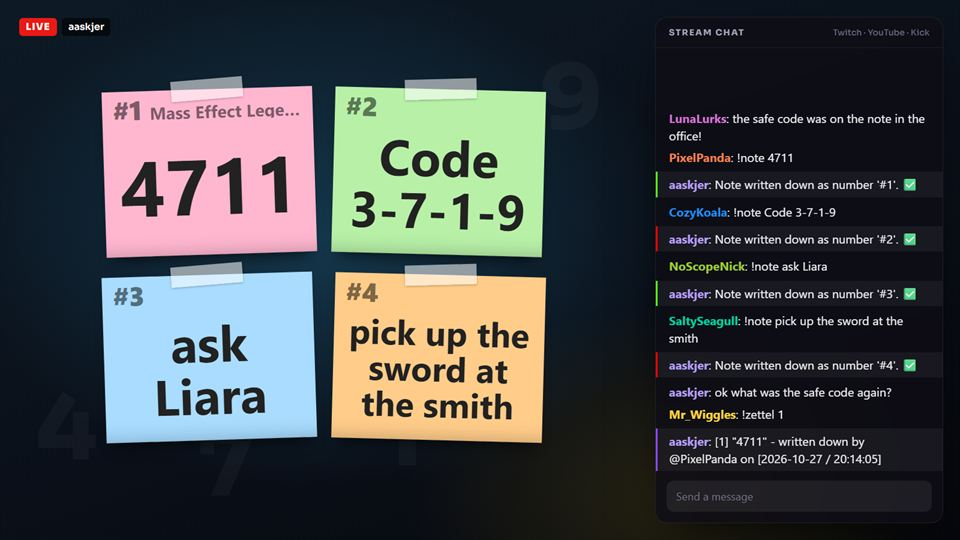
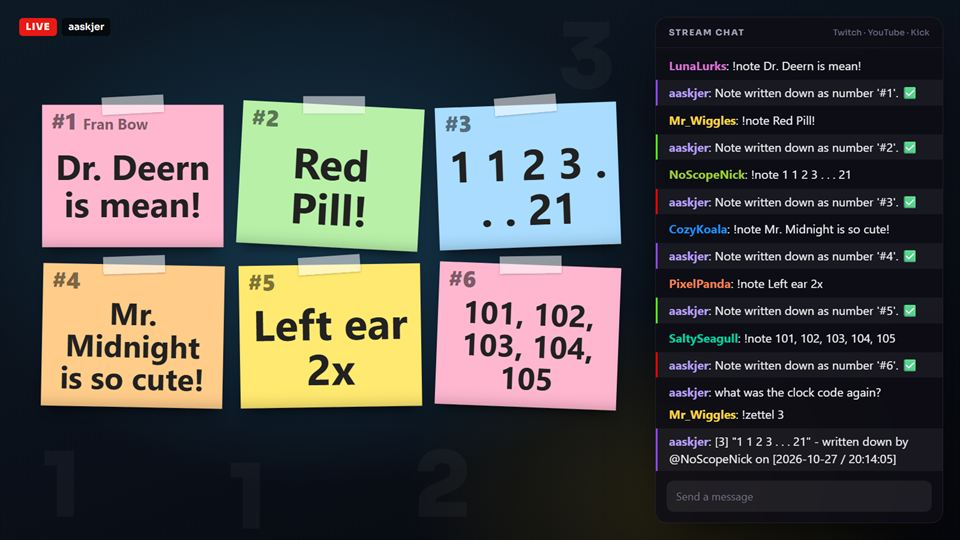
OBS Notes scene: Fran Bow notes with the v1.0.1 overlay
The card picture shows the six Fran Bow notes from a real stream as three by
two post-its, hung at mixed angles by the v1.0.1 overlay page, and the chat
shows the !note commands that wrote them plus a !zettel 3.

diff --git a/_scenes/obsnotes.html b/_scenes/obsnotes.html
@@ -20,34 +20,37 @@
     color: rgba(255, 255, 255, .035);
   }
   .digits span { position: absolute; }
-  .overlay { transform: scale(1.3); transform-origin: 0 0; }
+  .overlay { transform: scale(1.12); transform-origin: 0 0; }
 </style>
 </head>
 <body>
 <div class="frame">
   <div class="bg"></div>
   <div class="digits">
-    <span style="left:60px;top:640px">4</span><span style="left:330px;top:700px">7</span>
-    <span style="left:640px;top:650px">1</span><span style="left:900px;top:90px">9</span>
+    <span style="left:70px;top:735px">1</span><span style="left:380px;top:755px">1</span>
+    <span style="left:690px;top:735px">2</span><span style="left:930px;top:20px">3</span>
   </div>
   <div class="live"><b>LIVE</b><span>aaskjer</span></div>
-  <iframe class="overlay" src="overlays/obsnotes/notes_overlay.html" style="left:150px;top:120px;width:600px;height:500px"></iframe>
+  <iframe class="overlay" src="overlays/obsnotes/notes_overlay.html" style="left:50px;top:150px;width:900px;height:500px"></iframe>
 
   <section class="chat">
     <div class="chat__head">Stream chat <i>Twitch · YouTube · Kick</i></div>
     <ol class="chat__list">
-      <li class="msg"><span class="n c4">LunaLurks</span>the safe code was on the note in the office!</li>
-      <li class="msg"><span class="n c1">PixelPanda</span>!note 4711</li>
-      <li class="msg bot" style="--accent:#53fc18"><span class="n me">aaskjer</span>Note written down as number '#1'. ✅</li>
-      <li class="msg"><span class="n c2">CozyKoala</span>!note Code 3-7-1-9</li>
-      <li class="msg bot" style="--accent:#ff0000"><span class="n me">aaskjer</span>Note written down as number '#2'. ✅</li>
-      <li class="msg"><span class="n c3">NoScopeNick</span>!note ask Liara</li>
-      <li class="msg bot" style="--accent:#53fc18"><span class="n me">aaskjer</span>Note written down as number '#3'. ✅</li>
-      <li class="msg"><span class="n c5">SaltySeagull</span>!note pick up the sword at the smith</li>
-      <li class="msg bot" style="--accent:#ff0000"><span class="n me">aaskjer</span>Note written down as number '#4'. ✅</li>
-      <li class="msg"><span class="n me">aaskjer</span>ok what was the safe code again?</li>
-      <li class="msg"><span class="n c6">Mr_Wiggles</span>!zettel 1</li>
-      <li class="msg bot"><span class="n me">aaskjer</span>[1] "4711" - written down by @PixelPanda on [2026-10-27 / 20:14:05]</li>
+      <li class="msg"><span class="n c4">LunaLurks</span>!note Dr. Deern is mean!</li>
+      <li class="msg bot"><span class="n me">aaskjer</span>Note written down as number '#1'. ✅</li>
+      <li class="msg"><span class="n c6">Mr_Wiggles</span>!note Red Pill!</li>
+      <li class="msg bot" style="--accent:#53fc18"><span class="n me">aaskjer</span>Note written down as number '#2'. ✅</li>
+      <li class="msg"><span class="n c3">NoScopeNick</span>!note 1 1 2 3 . . . 21</li>
+      <li class="msg bot" style="--accent:#ff0000"><span class="n me">aaskjer</span>Note written down as number '#3'. ✅</li>
+      <li class="msg"><span class="n c2">CozyKoala</span>!note Mr. Midnight is so cute!</li>
+      <li class="msg bot"><span class="n me">aaskjer</span>Note written down as number '#4'. ✅</li>
+      <li class="msg"><span class="n c1">PixelPanda</span>!note Left ear 2x</li>
+      <li class="msg bot" style="--accent:#53fc18"><span class="n me">aaskjer</span>Note written down as number '#5'. ✅</li>
+      <li class="msg"><span class="n c5">SaltySeagull</span>!note 101, 102, 103, 104, 105</li>
+      <li class="msg bot" style="--accent:#ff0000"><span class="n me">aaskjer</span>Note written down as number '#6'. ✅</li>
+      <li class="msg"><span class="n me">aaskjer</span>what was the clock code again?</li>
+      <li class="msg"><span class="n c6">Mr_Wiggles</span>!zettel 3</li>
+      <li class="msg bot"><span class="n me">aaskjer</span>[3] "1 1 2 3 . . . 21" - written down by @NoScopeNick on [2026-10-27 / 20:14:05]</li>
     </ol>
     <div class="chat__input">Send a message</div>
   </section>

diff --git a/_scenes/overlays/obsnotes/notes_overlay.html b/_scenes/overlays/obsnotes/notes_overlay.html
@@ -2,7 +2,7 @@
 <html lang='de'>
 <head>
 <meta charset='utf-8'>
-<!-- obs-notes-overlay-version: 4 -->
+<!-- obs-notes-overlay-version: 6 -->
 <title>OBS Notes</title>
 <style>
   html, body { margin: 0; height: 100%; background: transparent; overflow: hidden; }
@@ -18,8 +18,6 @@
   .note.c3 { background: #a9dcff; }
   .note.c4 { background: #ffcc8a; }
   #board.plain .note { background: #fff; color: #000; }
-  .note.tilt { --r: -1.8deg; }
-  .note.tilt2 { --r: 1.5deg; }
   .tape { position: absolute; top: -13px; left: 50%; width: 92px; height: 26px; margin-left: -46px;
           background: rgba(255, 255, 255, 0.55); box-shadow: 0 1px 3px rgba(0, 0, 0, 0.25); transform: rotate(-3deg); }
   #board.plain .tape { background: rgba(210, 210, 210, 0.7); }
@@ -40,7 +38,7 @@
 <div id='board'></div>
 <script>
 (function () {
-  var PAGE_VERSION = 4;
+  var PAGE_VERSION = 6;
   var STATE_URL = 'notes_state.json';
   var POLL_MS = 1500;
   var MAX_FONT = 112;
@@ -63,6 +61,19 @@
     var box = el('div', 'fit');
     box.appendChild(el('div', 'text', (text || '').replace(/-/g, String.fromCharCode(0x2011))));
     return box;
+  }
+
+  // Hung up like real post-its: six angles, and now and then a straight one (two slots of eight). The pick comes from
+  // the note's author and text, so it stays put when the page reloads; no post-it hangs exactly like the one before.
+  var ANGLES = [0, -3.2, -2.1, -0.9, 0, 1.1, 2.2, 3];
+  function tilt(n, before) {
+    var key = (n.author || '') + '|' + (n.text || '');
+    var h = 2166136261;
+    for (var i = 0; i < key.length; i++) { h ^= key.charCodeAt(i); h = Math.imul(h, 16777619); }
+    h ^= h >>> 16; h = Math.imul(h, 0x85ebca6b); h ^= h >>> 13; h = Math.imul(h, 0xc2b2ae35); h ^= h >>> 16;
+    var pick = (h >>> 0) % ANGLES.length;
+    if (ANGLES[pick] === before) pick = (pick + 1) % ANGLES.length;
+    return ANGLES[pick];
   }
 
   // As large as the box allows; a word too long for one line is broken only once the font is small.
@@ -88,11 +99,14 @@
 
   function render(s) {
     var seen = {};
+    var lean = null;
     board.classList.toggle('plain', s.colorfulNotes === false);
     var notes = (s.notes || []).map(function (n) {
       var key = n.number + '|' + n.text;
       seen[key] = true;
-      var note = el('div', 'note c' + (n.number % 5) + (n.number % 2 ? ' tilt' : ' tilt2') + (known && !known[key] ? ' new' : ''));
+      var note = el('div', 'note c' + (n.number % 5) + (known && !known[key] ? ' new' : ''));
+      lean = tilt(n, lean);
+      note.style.setProperty('--r', lean + 'deg');
       note.appendChild(el('div', 'tape'));
       var head = el('div', 'head');
       head.appendChild(el('span', 'num', '#' + n.number));

diff --git a/assets/js/projects.js b/assets/js/projects.js
@@ -118,7 +118,7 @@ window.SITE = {
       section: 'tools',
       logo: 'assets/img/projects/obsnotes.png',
       scene: 'assets/img/scenes/obsnotes.jpg',
-      sceneAlt: 'Viewers write a safe code and quest hints into chat with !note, and each one sticks on stream as a post-it.',
+      sceneAlt: 'Viewers write their Fran Bow clues into chat with !note, and each one sticks on stream as a post-it.',
       tagline: 'Can\'t remember the code of the combination lock? Your chat can step-in an add a post-it in OBS for you!',
       platforms: ['Twitch', 'YouTube', 'Kick'],
       tags: ['OBS overlay'],

diff --git a/_scenes/README.md b/_scenes/README.md
@@ -3,7 +3,7 @@
 The pictures on top of the project cards (`assets/img/scenes/`) are rendered from the pages in this folder.
 
 - One page per project, named like its picture: `hangman-game.html` becomes `hangman-game.jpg`. The chat lines are plain HTML inside each page.
-- `overlays/` holds copies of the real OBS overlays from the Hangman (v11.0.0), Battleship (v1.0.0), Blackjack (v16.1.1) and OBS Notes (v1.0.0) releases. The `*_state.json` next to each overlay is the sample game or note list it shows, in the same format the extension writes.
+- `overlays/` holds copies of the real OBS overlays from the Hangman (v11.0.0), Battleship (v1.0.0), Blackjack (v16.1.1) and OBS Notes (v1.0.1) releases. The `*_state.json` next to each overlay is the sample game or note list it shows, in the same format the extension writes.
 - The chat messages are the extensions' default texts. Viewer names, bets, notes and numbers are made up.
 - `scene.css` is the shared stream frame and chat panel; `img/` holds full-size logos for the chat-only scenes.
 - `logos/` holds the vector sources of the OBS Notes and Chat Calendar logos (`assets/img/projects/*.png`, 256x256 with a transparent background). `streamerbot.svg` is the official Streamer.bot logo from streamer.bot, built into the Chat Calendar logo. To render one: Edge or Chrome with `--headless=new --window-size=256,256 --force-device-scale-factor=2 --default-background-color=00000000 --screenshot=...` on the SVG, then scale the 512x512 result down to 256x256 (the full size goes to `img/chatcalendar.png` for the scene).
